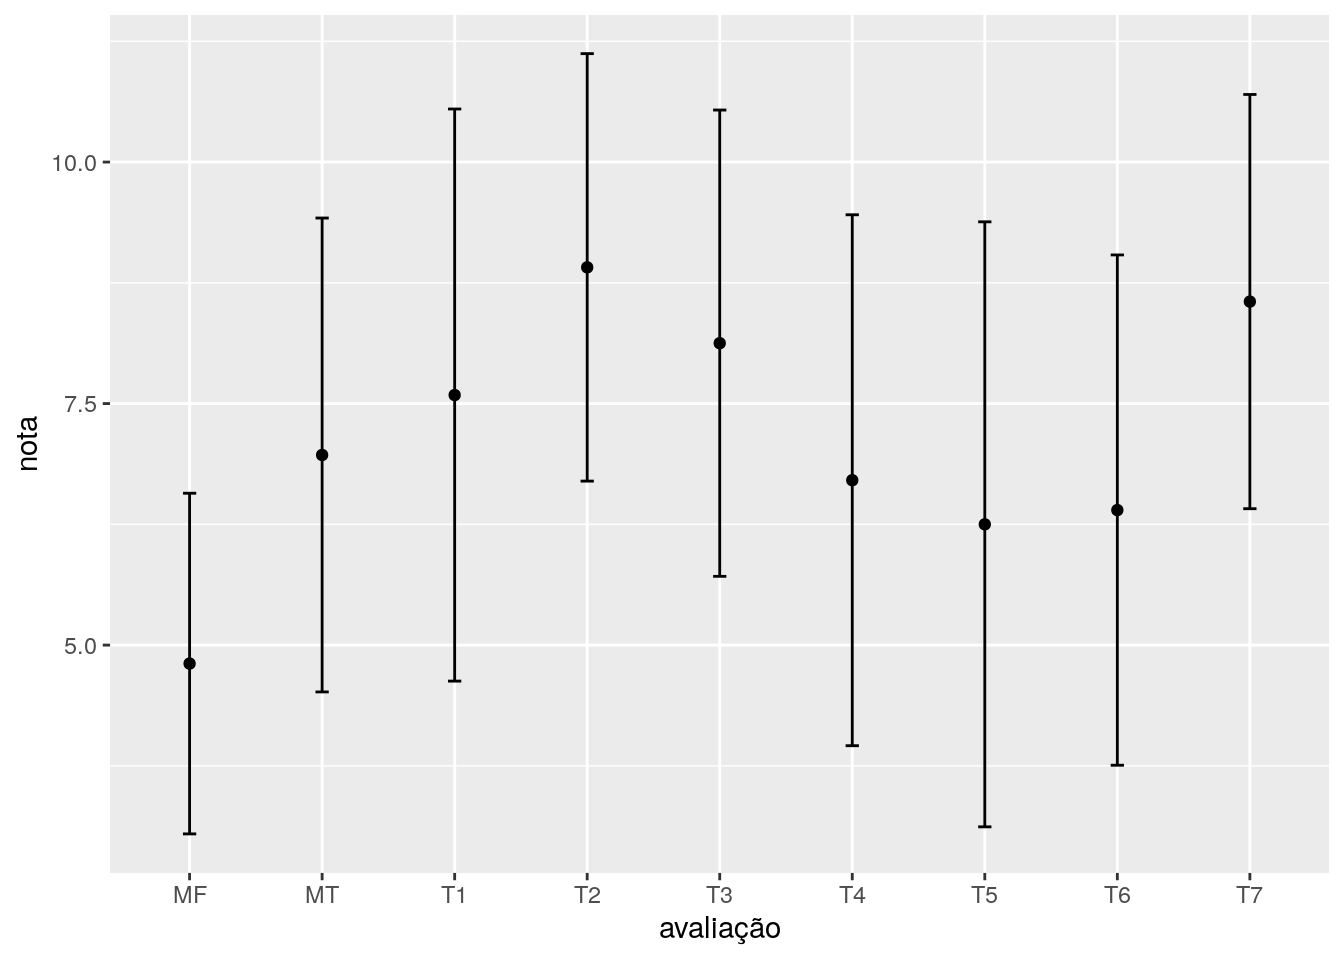
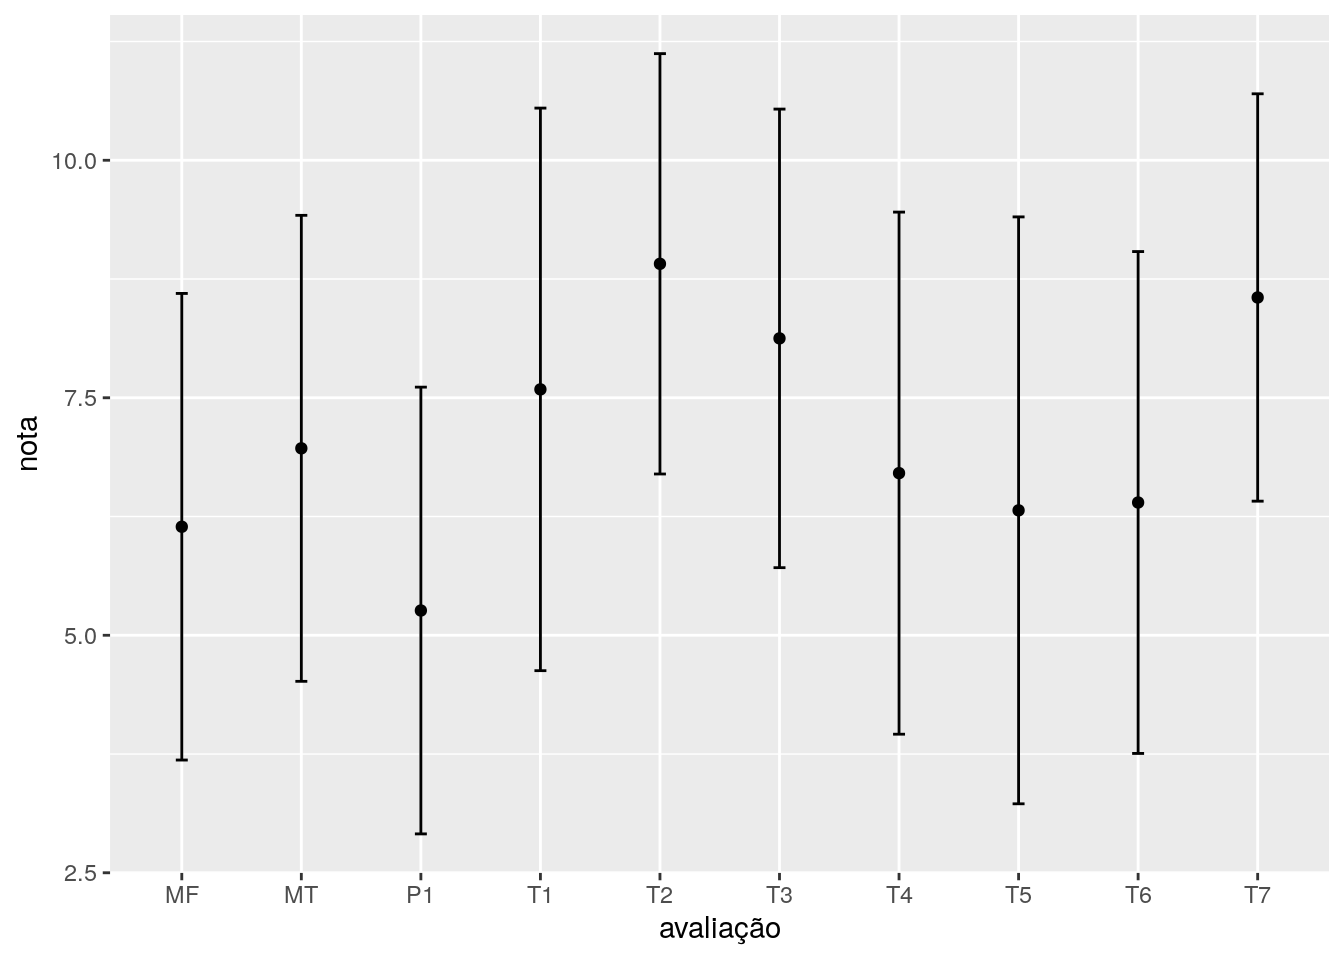
2019_2_prob_1: P1, MT and MF.

diff --git a/content/classes/2019_2_prob_1/grades.html b/content/classes/2019_2_prob_1/grades.html
@@ -29,7 +29,7 @@ código de ética desta disciplina e você está reprovado.</p></li>
 <div id="notas" class="section level3">
 <h3>Notas</h3>
 <div id="htmlwidget-1" style="width:100%;height:auto;" class="datatables html-widget"></div>
-<script type="application/json" data-for="htmlwidget-1">{"x":{"filter":"none","data":[[282,292,295,299,300,303,313,560,955,956,1779,1810,1877,1879,1880,1892,1914,1949,2066,2119,2123,2728,2872,3228,4149,4459,4750,4843,4844,4847,4855,4878,4882,5946,6690,7200,7390,7653,7703,7838,7857,7920,8013,8649,8675,8683,8692,8695,8921,9309,9339,9739,9782],[0.5,0.5,0.5,0.5,0.5,0.5,0.5,0.5,0.5,0.5,0.5,0,0,0.5,0,0.5,0.5,0.5,0.25,0,0,0,0.5,0.5,0.5,0,0,0,0.5,0,0.5,0.5,0,0,0,0.25,0.25,0,0.5,0.5,0.5,0.25,0.5,0,0.25,0.5,0.25,0,0,0,0,0,0],[5,10,10,10,10,10,5,4,10,10,5,0,10,7,3,10,10,4,7,5,0,10,10,10,7,5,3,5,2,5,10,10,10,8,1,10,10,10,10,4,10,4,10,10,3,10,10,2,8,10,10,10,5],[10,10,8,9,10,10,1,10,9.5,11,10,6,10,9,7.5,7,10,9.5,11,8,0,10,10,8,9.5,9,8,10,10,0,10,10,10,10,0,10,4,10,10,10,10,10,11,2,10,4,11,6,7,9.5,11,9,10],[6,10,10,10,10,10,10,4,10,4.5,6,0,8,10,7,10,10,10,8,4,0,4,10,6,10,0,6,6,10,0,10,10,10,9.5,1,10,9,7,6,7,10,9,10,0,6,10,10,3,10,7,6,10,10],[6,10,10,8,10,9,11,10,8,10,8.5,0,4,3,9,8,8,7.5,2,3,0,5,8,10,9,4,5,7,9,0,5,10,6,3,0,6.5,4,7,10,4,3,3,4,0,4,4,0,7,3,0,10,10,3],[10,10,10,7.5,10,9.5,10,3,0,0,3,0,0,6,4,0,9,4,0,6,0,10,0,0,0,0,0,0,6,0,4,0,3,0,0,0,0,0,7.5,1,1,0,1,0,0,6,7,0,9,0,0,5,0],[8,10,4,7,10,2,8,0,5,6.5,8,0,9,8,5,6,6,8,1,2,0,9,9,9,6,1,0,8,3,0,6,9,0,0,0,0,7,7,1,6,9,5,7,0,0,3,10,0,0,0,9,6,6],[10,10,10,9.5,10,3,10,10,10,9,10,0,0,10,10,9,10,7,6,6.5,0,10,9.5,10,8,0,0,3,7.5,0,10,9,0,0,0,6,10,0,10,10,6,9,9,0,0,8,10,0,3,0,0,0,0],[8.33,10,9.67,9,10,8.58,9,6.83,8.75,8.5,7.92,1,6.83,8.33,7.08,8.33,9.5,7.67,5.83,5.42,0,9,9.42,8.83,8.25,3.17,3.67,6.5,7.58,0.83,8.5,9.67,6.5,5.08,0.33,7.08,7.33,6.83,8.92,6.83,8,6.67,8.5,2,3.83,7,9.67,3,6.67,4.42,7.67,8.33,5.67],[0,0,0,0,0,0,0,0,0,0,0,0,0,0,0,0,0,0,0,0,0,0,0,0,0,0,0,0,0,0,0,0,0,0,0,0,0,0,0,0,0,0,0,0,0,0,0,0,0,0,0,0,0],[5.91,7,6.79,6.35,7,6.08,6.35,4.94,6.19,6.03,5.65,0.65,4.44,5.91,4.6,5.91,6.67,5.49,4.04,3.52,0,5.85,6.62,6.24,5.86,2.06,2.39,4.23,5.43,0.54,6.03,6.79,4.23,3.3,0.21,4.85,5.01,4.44,6.3,4.94,5.7,4.59,6.03,1.3,2.74,5.05,6.54,1.95,4.34,2.87,4.99,5.41,3.69]],"container":"<table class=\"display\">\n  <thead>\n    <tr>\n      <th>RA<\/th>\n      <th>Part<\/th>\n      <th>T1<\/th>\n      <th>T2<\/th>\n      <th>T3<\/th>\n      <th>T4<\/th>\n      <th>T5<\/th>\n      <th>T6<\/th>\n      <th>T7<\/th>\n      <th>MT<\/th>\n      <th>P1<\/th>\n      <th>MF<\/th>\n    <\/tr>\n  <\/thead>\n<\/table>","options":{"dom":"ftip","columnDefs":[{"className":"dt-right","targets":[0,1,2,3,4,5,6,7,8,9,10,11]}],"order":[],"autoWidth":false,"orderClasses":false}},"evals":[],"jsHooks":[]}</script>
+<script type="application/json" data-for="htmlwidget-1">{"x":{"filter":"none","data":[[282,292,295,299,300,303,313,560,955,956,1779,1810,1877,1879,1880,1892,1914,1949,2066,2119,2123,2728,2872,3228,4149,4459,4750,4843,4844,4847,4855,4878,4882,5946,6690,7200,7390,7653,7703,7838,7857,7920,8013,8649,8675,8683,8692,8695,8921,9309,9339,9739,9782],[0.5,0.5,0.5,0.5,0.5,0.5,0.5,0.5,0.5,0.5,0.5,0,0.25,0.5,0,0.5,0.5,0.5,0.5,0,0,0,0.5,0.5,0.5,0,0,0.25,0.5,0,0.5,0.5,0,0,0,0.25,0.5,0,0.5,0.5,0.5,0.25,0.5,0,0.25,0.5,0.25,0,0,0,0,0.25,0.25],[5,10,10,10,10,10,5,4,10,10,5,0,10,7,3,10,10,4,7,5,0,10,10,10,7,5,3,5,2,5,10,10,10,8,1,10,10,10,10,4,10,4,10,10,3,10,10,2,8,10,10,10,5],[10,10,8,9,10,10,1,10,9.5,11,10,6,10,9,7.5,7,10,9.5,11,8,0,10,10,8,9.5,9,8,10,10,0,10,10,10,10,0,10,4,10,10,10,10,10,11,2,10,4,11,6,7,9.5,11,9,10],[6,10,10,10,10,10,10,4,10,4.5,6,0,8,10,7,10,10,10,8,4,0,4,10,6,10,0,6,6,10,0,10,10,10,9.5,1,10,9,7,6,7,10,9,10,0,6,10,10,3,10,7,6,10,10],[6,10,10,8,10,9,11,10,8,10,8.5,0,4,3,9,8,8,7.5,2,3,0,5,8,10,9,4,5,7,9,0,5,10,6,3,0,6.5,4,7,10,4,3,3,4,0,4,4,0,7,3,0,10,10,3],[10,10,10,7.5,10,9.5,10,3,0,0,3,0,0,6,4,0,9,4,0,6,0,10,0,0,0,0,0,0,6,0,4,8,3,0,0,0,0,0,7.5,1,1,0,1,0,0,6,7,0,9,0,0,5,0],[8,10,4,7,10,2,8,0,5,6.5,8,0,9,8,5,6,6,8,1,2,0,9,9,9,6,1,0,8,3,0,6,9,0,0,0,0,7,7,1,6,9,5,7,0,0,3,10,0,0,0,9,6,6],[10,10,10,9.5,10,3,10,10,10,9,10,0,0,10,10,9,10,7,6,6.5,0,10,9.5,10,8,0,0,3,7.5,0,10,9,0,0,0,6,10,0,10,10,6,9,9,0,0,8,10,0,3,0,0,0,0],[5,8.3,9.5,2,9.5,3,8.8,5.8,4.5,3.5,7,0,7.3,6,3.8,6.5,6.3,5,2,0.8,0,3.8,6.5,2.8,3.3,0,0.8,3.5,6.8,0,6.8,7.5,7.5,4.8,0,6.8,4,0.3,8.5,3.5,8.3,4.8,5,0,0,4.5,0,0,4.8,0,3.5,7,6.5],[8.33,10,9.67,9,10,8.58,9,6.83,8.75,8.5,7.92,1,6.83,8.33,7.08,8.33,9.5,7.67,5.83,5.42,0,9,9.42,8.83,8.25,3.17,3.67,6.5,7.58,0.83,8.5,9.67,6.5,5.08,0.33,7.08,7.33,6.83,8.92,6.83,8,6.67,8.5,2,3.83,7,9.67,3,6.67,4.42,7.67,8.33,5.67],[7.4,9.5,9.6,7,9.8,7,9,6.7,7.5,7.1,7.7,0.6,6.9,7.7,5.7,7.9,8.6,7,4.9,3.8,0,7,8.6,7.1,6.9,2.1,2.6,5.5,7.5,0.5,8.1,9,6.5,4.7,0.2,6.9,6.5,4.5,8.8,6,8.2,6,7.5,1.3,2.7,6.4,6.5,2,5.8,2.9,6,7.8,5.9]],"container":"<table class=\"display\">\n  <thead>\n    <tr>\n      <th>RA<\/th>\n      <th>Part<\/th>\n      <th>T1<\/th>\n      <th>T2<\/th>\n      <th>T3<\/th>\n      <th>T4<\/th>\n      <th>T5<\/th>\n      <th>T6<\/th>\n      <th>T7<\/th>\n      <th>P1<\/th>\n      <th>MT<\/th>\n      <th>MF<\/th>\n    <\/tr>\n  <\/thead>\n<\/table>","options":{"dom":"ftip","columnDefs":[{"className":"dt-right","targets":[0,1,2,3,4,5,6,7,8,9,10,11]}],"order":[],"autoWidth":false,"orderClasses":false}},"evals":[],"jsHooks":[]}</script>
 </div>
 <div id="graficos" class="section level3">
 <h3>Gráficos</h3>
